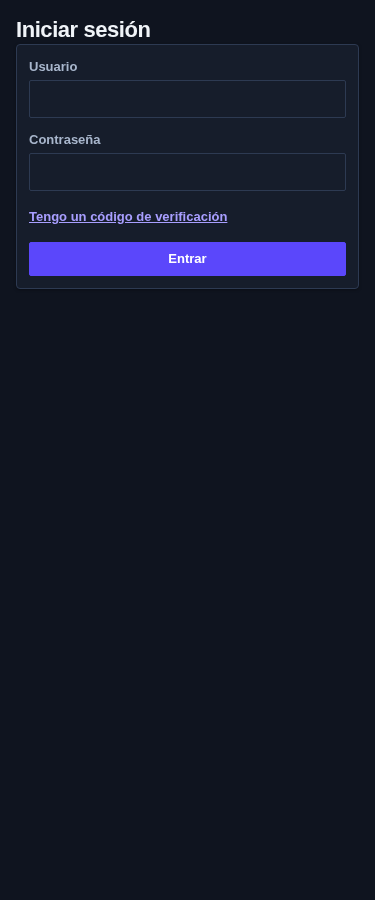
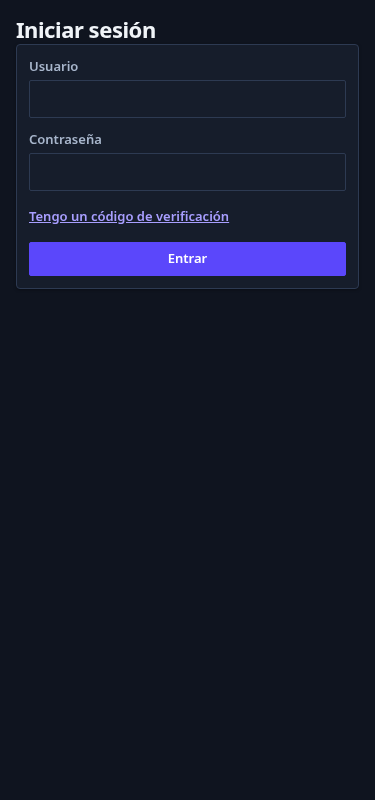
fix(U9-T04): ronda 2 — desborde del detalle/diálogo, tokens completos, sin animación, NavLink

Changed region(s): [[0.0587, 0.2188, 0.9387, 0.3438], [0.0293, 0.0, 0.44, 0.0938], [0.0587, 0.125, 0.2933, 0.1875]]

diff --git a/web/dashboard/src/styles/tokens.test.ts b/web/dashboard/src/styles/tokens.test.ts
@@ -1,9 +1,12 @@
 import { describe, expect, it } from 'vitest';
 
-// Contraste AA (U9-T04 CA-3): lee los tokens del archivo CSS, sin navegador, y comprueba
-// ≥ 4.5:1 para cada par texto/fondo e insignia/fondo declarado, en tema claro y oscuro.
+// Contraste AA (U9-T04 CA-3): lee tokens.css y styles.css, sin navegador, y comprueba ≥ 4.5:1 en
+// tema claro y oscuro para: (a) los pares declarados en DESIGN.md §2.2, (b) los pares que la propia
+// hoja usa, derivados de sus reglas (color y fondo de una misma regla, o de un componente y su
+// :hover), y (c) todo texto de la hoja sobre las superficies de la app y todo fondo con el texto por
+// defecto. Así un cambio en styles.css que rompa AA falla aquí sin que alguien lo tenga que listar.
 
-// Vitest vacía los CSS importados (?raw devuelve ''), así que el archivo se lee con el módulo
+// Vitest vacía los CSS importados (?raw devuelve ''), así que los archivos se leen con el módulo
 // de Node. El especificador va en variable para no exigir @types/node al typecheck, y la ruta
 // se resuelve desde el directorio de trabajo (`npm test` corre en web/dashboard).
 const fsModulo = 'node:fs';
@@ -11,7 +14,9 @@ const { readFileSync } = (await import(/* @vite-ignore */ fsModulo)) as {
   readFileSync: (ruta: string, codificacion: 'utf8') => string;
 };
 const proceso = (globalThis as unknown as { process: { cwd: () => string } }).process;
-const tokensCss = readFileSync(`${proceso.cwd()}/src/styles/tokens.css`, 'utf8');
+const leer = (ruta: string) => readFileSync(`${proceso.cwd()}/${ruta}`, 'utf8');
+const tokensCss = leer('src/styles/tokens.css');
+const hojaCss = leer('src/styles.css');
 
 const DARK_MARKER = '@media (prefers-color-scheme: dark)';
 
@@ -51,9 +56,17 @@ function contrast(a: string, b: string): number {
   return (Math.max(la, lb) + 0.05) / (Math.min(la, lb) + 0.05);
 }
 
-// Pares declarados en DESIGN.md §2.2 (texto/fondo e insignia/fondo). El color de texto del
-// botón primario es literal (#ffffff) sobre --accent.
-const PARES: ReadonlyArray<readonly [string, string]> = [
+/** Resuelve un color (`var(--x)` o hex de 6 dígitos) con los tokens de un tema. null si no es un color. */
+function resolver(valor: string, tokens: Map<string, string>): string | null {
+  const v = valor.trim();
+  const ref = /^var\(--([a-z0-9-]+)\)$/.exec(v);
+  const crudo = ref ? tokens.get(ref[1] ?? '') : v;
+  if (crudo === undefined) throw new Error(`falta el token ${v}`);
+  return /^#[0-9a-fA-F]{6}$/.test(crudo) ? crudo : null;
+}
+
+// Pares declarados en DESIGN.md §2.2 (texto/fondo e insignia/fondo). Los nombres son tokens.
+const PARES_DESIGN: ReadonlyArray<readonly [string, string]> = [
   ['text', 'surface'],
   ['text', 'bg'],
   ['text', 'surface-2'],
@@ -73,10 +86,53 @@ const PARES: ReadonlyArray<readonly [string, string]> = [
   ['teal', 'teal-soft'],
 ];
 
-function valor(tokens: Map<string, string>, nombre: string): string {
-  const v = tokens.get(nombre);
-  if (v === undefined) throw new Error(`falta el token --${nombre}`);
-  return v;
+interface Regla {
+  base: string;
+  raw: string;
+  color: string | null;
+  fondo: string | null;
+}
+
+/** Reglas planas de la hoja: cada selector de una lista, con su base (sin pseudoclases) y sus declaraciones. */
+function reglas(css: string): Regla[] {
+  const out: Regla[] = [];
+  for (const m of css.matchAll(/([^{}]+)\{([^{}]*)\}/g)) {
+    const selector = (m[1] ?? '').trim();
+    const cuerpo = m[2] ?? '';
+    if (selector === '' || selector.startsWith('@')) continue;
+    const color = /(?:^|[;\s])color\s*:\s*([^;]+)/.exec(cuerpo)?.[1]?.trim() ?? null;
+    const fondo = /background(?:-color)?\s*:\s*([^;]+)/.exec(cuerpo)?.[1]?.trim() ?? null;
+    for (const sel of selector.split(',')) {
+      const base = sel.trim().replace(/::?[a-z-]+(\([^)]*\))?/g, '').trim();
+      out.push({ base, raw: sel.trim(), color, fondo });
+    }
+  }
+  return out;
+}
+
+interface Par {
+  nombre: string;
+  fg: string;
+  bg: string;
+}
+
+/** Pares (texto, fondo) que la hoja usa: misma regla, o color de un componente con fondo de su :hover/estado. */
+function paresDeLaHoja(tokens: Map<string, string>): Par[] {
+  const rs = reglas(hojaCss);
+  const pares: Par[] = [];
+  const añadir = (nombre: string, colorV: string | null, fondoV: string | null) => {
+    if (colorV === null || fondoV === null) return;
+    const fg = resolver(colorV, tokens);
+    const bg = resolver(fondoV, tokens);
+    if (fg !== null && bg !== null) pares.push({ nombre, fg, bg });
+  };
+  for (const r of rs) añadir(`${r.base} (misma regla)`, r.color, r.fondo);
+  for (const r of rs) {
+    for (const f of rs) {
+      if (f.base === r.base && f !== r) añadir(`${r.base} (color + fondo de otra regla)`, r.color, f.fondo);
+    }
+  }
+  return pares;
 }
 
 const temas = splitThemes(tokensCss);
@@ -86,13 +142,63 @@ describe.each([
   ['oscuro', temas.dark],
 ])('contraste AA en tema %s', (_nombre, bloque) => {
   const tokens = parseTokens(bloque);
+  const valor = (nombre: string): string => {
+    const v = tokens.get(nombre);
+    if (v === undefined) throw new Error(`falta el token --${nombre}`);
+    return v;
+  };
+  const rs = reglas(hojaCss);
+  // Texto que hereda de la superficie de la app: reglas con color y sin fondo propio. Los textos con
+  // fondo propio ya se prueban contra ese fondo (pares derivados). Y al revés: fondos sin color propio
+  // reciben el texto por defecto (--text) o secundario (--text-muted).
+  // Se excluyen los pseudoelementos (adornos sin texto: el punto del wordmark, el punto pulsante) y los
+  // estados :hover, que cambian el fondo de un control cuyo texto ya se prueba en su regla base.
+  const decorativa = (r: Regla) => r.raw.includes('::');
+  const textos = [...new Set(rs.filter((r) => r.color !== null && r.fondo === null && !decorativa(r)).map((r) => r.color ?? ''))];
+  const fondos = [...new Set(rs.filter((r) => r.fondo !== null && r.color === null && !decorativa(r) && !r.raw.includes(':hover')).map((r) => r.fondo ?? ''))];
 
-  it.each(PARES)('%s sobre %s ≥ 4.5:1', (fg, bg) => {
-    const ratio = contrast(valor(tokens, fg), valor(tokens, bg));
-    expect(ratio, `--${fg} sobre --${bg}`).toBeGreaterThanOrEqual(4.5);
+  it.each(PARES_DESIGN)('DESIGN §2.2: --%s sobre --%s ≥ 4.5:1', (fg, bg) => {
+    expect(contrast(valor(fg), valor(bg)), `--${fg} sobre --${bg}`).toBeGreaterThanOrEqual(4.5);
   });
 
-  it('botón primario: #ffffff sobre --accent ≥ 4.5:1', () => {
-    expect(contrast('#ffffff', valor(tokens, 'accent'))).toBeGreaterThanOrEqual(4.5);
+  it('botón primario: --on-accent sobre --accent y sobre --accent-hover ≥ 4.5:1', () => {
+    expect(contrast(valor('on-accent'), valor('accent'))).toBeGreaterThanOrEqual(4.5);
+    expect(contrast(valor('on-accent'), valor('accent-hover'))).toBeGreaterThanOrEqual(4.5);
+  });
+
+  it('pares derivados de styles.css ≥ 4.5:1', () => {
+    const pares = paresDeLaHoja(tokens);
+    expect(pares.length).toBeGreaterThan(0);
+    const malos = pares
+      .map((p) => ({ ...p, ratio: contrast(p.fg, p.bg) }))
+      .filter((p) => p.ratio < 4.5)
+      .map((p) => `${p.nombre}: ${p.fg} sobre ${p.bg} = ${p.ratio.toFixed(2)}`);
+    expect(malos).toEqual([]);
+  });
+
+  it('todo texto de la hoja sobre las superficies de la app (--bg, --surface, --surface-2) ≥ 4.5:1', () => {
+    const malos: string[] = [];
+    for (const t of textos) {
+      const fg = resolver(t, tokens);
+      if (fg === null) continue;
+      for (const sup of ['bg', 'surface', 'surface-2']) {
+        const ratio = contrast(fg, valor(sup));
+        if (ratio < 4.5) malos.push(`${t} sobre --${sup} = ${ratio.toFixed(2)}`);
+      }
+    }
+    expect(malos).toEqual([]);
+  });
+
+  it('todo fondo de la hoja con --text y --text-muted ≥ 4.5:1', () => {
+    const malos: string[] = [];
+    for (const f of fondos) {
+      const bg = resolver(f, tokens);
+      if (bg === null) continue;
+      for (const txt of ['text', 'text-muted']) {
+        const ratio = contrast(valor(txt), bg);
+        if (ratio < 4.5) malos.push(`--${txt} sobre ${f} = ${ratio.toFixed(2)}`);
+      }
+    }
+    expect(malos).toEqual([]);
   });
 });

diff --git a/web/dashboard/src/styles.css b/web/dashboard/src/styles.css
@@ -338,7 +338,7 @@ main.page-narrow {
 .btn-primary {
   background: var(--accent);
   border-color: var(--accent);
-  color: #ffffff;
+  color: var(--on-accent);
 }
 
 .btn-primary:hover:not(:disabled) {
@@ -475,7 +475,7 @@ main.page-narrow {
 
 dl {
   display: grid;
-  grid-template-columns: max-content 1fr;
+  grid-template-columns: max-content minmax(0, 1fr);
   gap: 4px 16px;
   margin: 0 0 12px;
 }
@@ -491,6 +491,8 @@ dl dt {
 
 dl dd {
   margin: 0;
+  min-width: 0;
+  overflow-wrap: anywhere;
 }
 
 .detail {
@@ -506,7 +508,9 @@ dl dd {
   width: min(480px, calc(100% - 32px));
   height: fit-content;
   z-index: 50;
-  box-shadow: 0 8px 24px rgba(0, 0, 0, 0.25);
+  box-shadow: var(--modal-shadow);
+  max-height: calc(100% - 32px);
+  overflow: auto;
 }
 
 /* ---------- Línea de tiempo de la corrida ---------- */
@@ -565,22 +569,15 @@ dl dd {
   height: 8px;
   border-radius: 50%;
   background: var(--info);
-  animation: pulso 1.6s ease-in-out infinite;
 }
 
-@keyframes pulso {
-  50% {
-    opacity: 0.35;
-  }
-}
-
-/* Fondo fijo claro (no es un token): el color de texto de la corrida fallida es #b00020 y solo
-   cumple AA sobre un fondo claro, también en el tema oscuro. */
+/* Corrida fallida: texto y fondo fijos (tokens --failed-*), también en el tema oscuro. */
 .status-failed {
   font-weight: 700;
-  background: #fde8ea;
-  border-color: #b00020;
-  border-left-color: #b00020;
+  background: var(--failed-bg);
+  border-color: var(--failed-fg);
+  border-left-color: var(--failed-fg);
+  color: var(--failed-fg);
 }
 
 /* ---------- Post-mortem y plan ---------- */

diff --git a/web/dashboard/src/styles/tokens.css b/web/dashboard/src/styles/tokens.css
@@ -2,7 +2,8 @@
  * Tokens de diseño del dashboard (U9-T04), derivados de mockups/swarm-mock.html y DESIGN.md §2.1.
  * Único origen de colores, superficies, bordes, radios, sombras y tipografía. El tema oscuro
  * sigue la preferencia del sistema (prefers-color-scheme). Sin recursos externos: la CSP es
- * default-src 'self' (U6-T06), así que las fuentes son la pila del sistema.
+ * default-src 'self' (U6-T06). Las fuentes son la pila del sistema: vendorizar IBM Plex sería una
+ * dependencia más con peso, y el mockup solo la nombra como preferencia.
  */
 
 :root {
@@ -29,11 +30,15 @@
   --info-soft: #e6f0ff;
   --teal: #00666e;
   --teal-soft: #e0f7f9;
+  --on-accent: #ffffff;
+  --failed-fg: #b00020;
+  --failed-bg: #fde8ea;
+  --modal-shadow: 0 8px 24px rgba(0, 0, 0, 0.25);
   --radius: 4px;
   --radius-sm: 2px;
   --shadow: 0 1px 2px rgba(28, 39, 60, 0.04);
-  --font-sans: "IBM Plex Sans", -apple-system, BlinkMacSystemFont, "Segoe UI", Roboto, sans-serif;
-  --font-mono: "IBM Plex Mono", ui-monospace, SFMono-Regular, Menlo, Consolas, monospace;
+  --font-sans: -apple-system, BlinkMacSystemFont, "Segoe UI", Roboto, system-ui, sans-serif;
+  --font-mono: ui-monospace, SFMono-Regular, Menlo, Consolas, monospace;
   color-scheme: light;
 }
 
@@ -62,6 +67,10 @@
     --info-soft: #132747;
     --teal: #3ce0eb;
     --teal-soft: #0e2d33;
+    --on-accent: #ffffff;
+    --failed-fg: #b00020;
+    --failed-bg: #fde8ea;
+    --modal-shadow: 0 8px 24px rgba(0, 0, 0, 0.5);
     --shadow: 0 1px 3px rgba(0, 0, 0, 0.35);
     color-scheme: dark;
   }

diff --git a/web/dashboard/src/session/ProtectedLayout.tsx b/web/dashboard/src/session/ProtectedLayout.tsx
@@ -1,4 +1,4 @@
-import { Link, Navigate, Outlet, useLocation } from 'react-router-dom';
+import { Navigate, NavLink, Outlet, useLocation } from 'react-router-dom';
 import { loginPath } from './next';
 import { useSession } from './SessionContext';
 
@@ -20,9 +20,9 @@ export function ProtectedLayout() {
             <span className="app-brand-tag">Agentic QA Swarm</span>
           </div>
           <nav aria-label="Principal" className="app-nav">
-            <Link to="/inbox">Inbox</Link>
-            <Link to="/runs">Mis corridas</Link>
-            <Link to="/warm">Warm</Link>
+            <NavLink to="/inbox">Inbox</NavLink>
+            <NavLink to="/runs">Mis corridas</NavLink>
+            <NavLink to="/warm">Warm</NavLink>
           </nav>
           <div className="app-session">
             <span className="app-principal">{session.principal.principal_id}</span>

diff --git a/web/dashboard/src/pages/Inbox/InboxPage.tsx b/web/dashboard/src/pages/Inbox/InboxPage.tsx
@@ -159,7 +159,7 @@ export function InboxPage() {
       </div>
 
       <div className="toolbar">
-      <div role="tablist" aria-label="Estado de las notificaciones" className="tabs">
+        <div role="tablist" aria-label="Estado de las notificaciones" className="tabs">
         {PESTANAS.map((p) => (
           <button
             key={p.estado}
@@ -196,7 +196,7 @@ export function InboxPage() {
         ) : null}
         {lista !== null && errorLista === null && lista.length > 0 ? (
           <div className="card table-wrap">
-          <table className="data-table">
+            <table className="data-table">
             <thead>
               <tr>
                 <th scope="col">Repositorio</th>

diff --git a/web/dashboard/src/pages/Warm/WarmPage.tsx b/web/dashboard/src/pages/Warm/WarmPage.tsx
@@ -53,7 +53,7 @@ export function WarmPage() {
       )}
 
       {data !== null && (
-        <section aria-label="Tarjeta del warm" className="card warm-card">
+        <section aria-label="Tarjeta del warm" className="card">
           <p>
             Estado:{' '}
             <span
@@ -75,7 +75,7 @@ export function WarmPage() {
               El warm está listo, pero el reset no está verificado. No confíes en sus resultados hasta verificarlo.
             </p>
           )}
-          <dl className="meta-list">
+          <dl>
             <dt>Versión base</dt>
             <dd>
               <code>{data.baseline_version}</code>

diff --git a/bitacoras/U9-T04.md b/bitacoras/U9-T04.md
@@ -107,3 +107,34 @@ npx vitest run src/styles → 36 passed
 dashboard-smoke (flock) → FALLA=0, exit 0; OK en index, csp, login, inbox, warm, 401, logout, reporte-visible
 git diff --stat origin/main -- 'web/dashboard/src/**/*.test.tsx' → vacío (ningún .test.tsx modificado)
 ```
+
+## Ronda 2 (retrabajo tras revisiones/U9-T04/ronda-1.md)
+
+Respuestas por hallazgo:
+
+- F-01: Corregido: `dl` usa `grid-template-columns: max-content minmax(0,1fr)`, `dd` con `min-width:0; overflow-wrap:anywhere`; `.modal` con `max-height: calc(100% - 32px); overflow:auto`. Medición (flock único, `/tmp/u9-shots/measure2.mjs`, `scrollWidth` vs `clientWidth`):
+  ```
+  light/dark × 375 y 320; login, inbox, inbox-detalle, inbox-dialogo, corrida, corrida-plan, warm
+  → todas: scrollWidth == clientWidth (375/375 o 320/320) → OK
+  ```
+  Capturas en bitacoras/U9-T04/: `inbox-detalle-*.png`, `inbox-dialogo-*.png`, `corrida-plan-*.png`, más las de cada vista, claro y oscuro, a 375 y 320.
+  El run fallido NO se capturó: no hay corrida fallida en el kind de pruebas y no la provoqué (no es un defecto de la rama; queda como pendiente declarado).
+- F-02: Corregido: se borraron `.phase-actual::before` (punto pulsante) y `@keyframes pulso`. `grep -c 'animation\|pulso' src/styles.css` → 0.
+- F-03: Corregido: `tokens.css` añade `--on-accent`, `--failed-fg`, `--failed-bg`, `--modal-shadow` (claro y oscuro). `styles.css` ya no tiene literales de color ni sombra fuera de los tokens (`grep -n '#[0-9a-fA-F]\{3,6\}\|rgba' src/styles.css` → vacío). `#b00020` del TSX se queda por el test.
+  La prueba ya no lleva una lista a mano para los pares de la hoja: deriva de `styles.css` (color+fondo de la misma regla; color de un componente con fondo de su regla/`:hover`; texto de reglas sin fondo sobre `--bg/--surface/--surface-2`; fondos sin color propio con `--text`/`--text-muted`). Excluye pseudoelementos decorativos y `:hover` en el segundo cruce, cada exclusión justificada en el código. Total: 42 tests verdes (36 de antes más 6 de los nuevos).
+  Hover del botón primario en oscuro: `--on-accent` sobre `--accent-hover` (#6e5cff) = 4.53:1. Se queda en el valor del mockup (`DESIGN.md §2.1`); cumple AA (≥ 4.5) y el margen queda registrado aquí. No lo subí, porque cambiar el color de hover rompe la referencia visual.
+- F-04 (opcionales):
+  - NavLink: hecho en `ProtectedLayout.tsx` (`Link` → `NavLink`); `aria-current="page"` ahora lo pone React Router. `nav.test` sigue en 3 enlaces.
+  - Clases `meta-list` y `warm-card` eliminadas (no tenían CSS): `WarmPage.tsx`.
+  - `.modal` con `max-height` y `overflow:auto`: hecho.
+  - Sangría de `toolbar` y `table-wrap` en InboxPage: corregida en esas dos líneas. El resto del bloque de la tabla no se reindentó.
+  - Fuentes: no vendorizadas. Se quitó IBM Plex de `--font-sans` y `--font-mono`; queda la pila del sistema. Justificación: vendorizar añade una dependencia binaria con peso, y el criterio de la tarea pide fuentes «servidas desde el propio build» sin CDN. La pila del sistema cumple la CSP y no usa red. Queda registrado como decisión para el humano.
+
+Verde final (commit de esta ronda):
+```
+lint 0 · typecheck 0 · check:api 0 · FAILCOUNT=0
+npx vitest run src/styles → 42 passed
+build: unsafe-inline/unsafe-eval = 0; URLs en dist = 3 (idénticas a origin/main, ver ronda 1); url(http…) = 0; @import = 0
+dashboard-smoke (flock) → FALLA=0, exit 0
+git diff --stat origin/main -- 'web/dashboard/src/**/*.test.tsx' → vacío
+```
